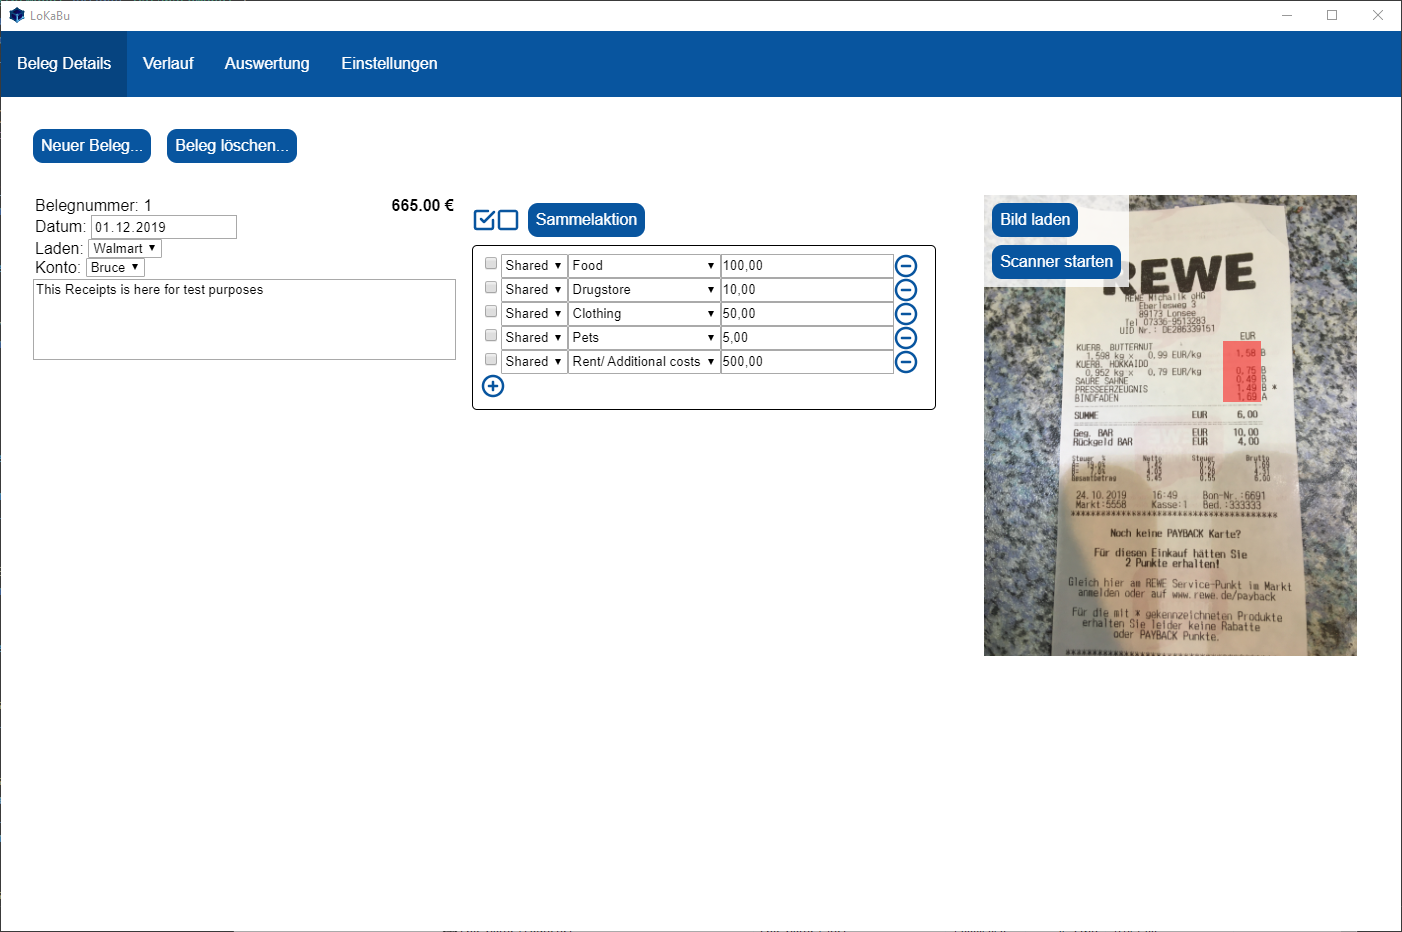
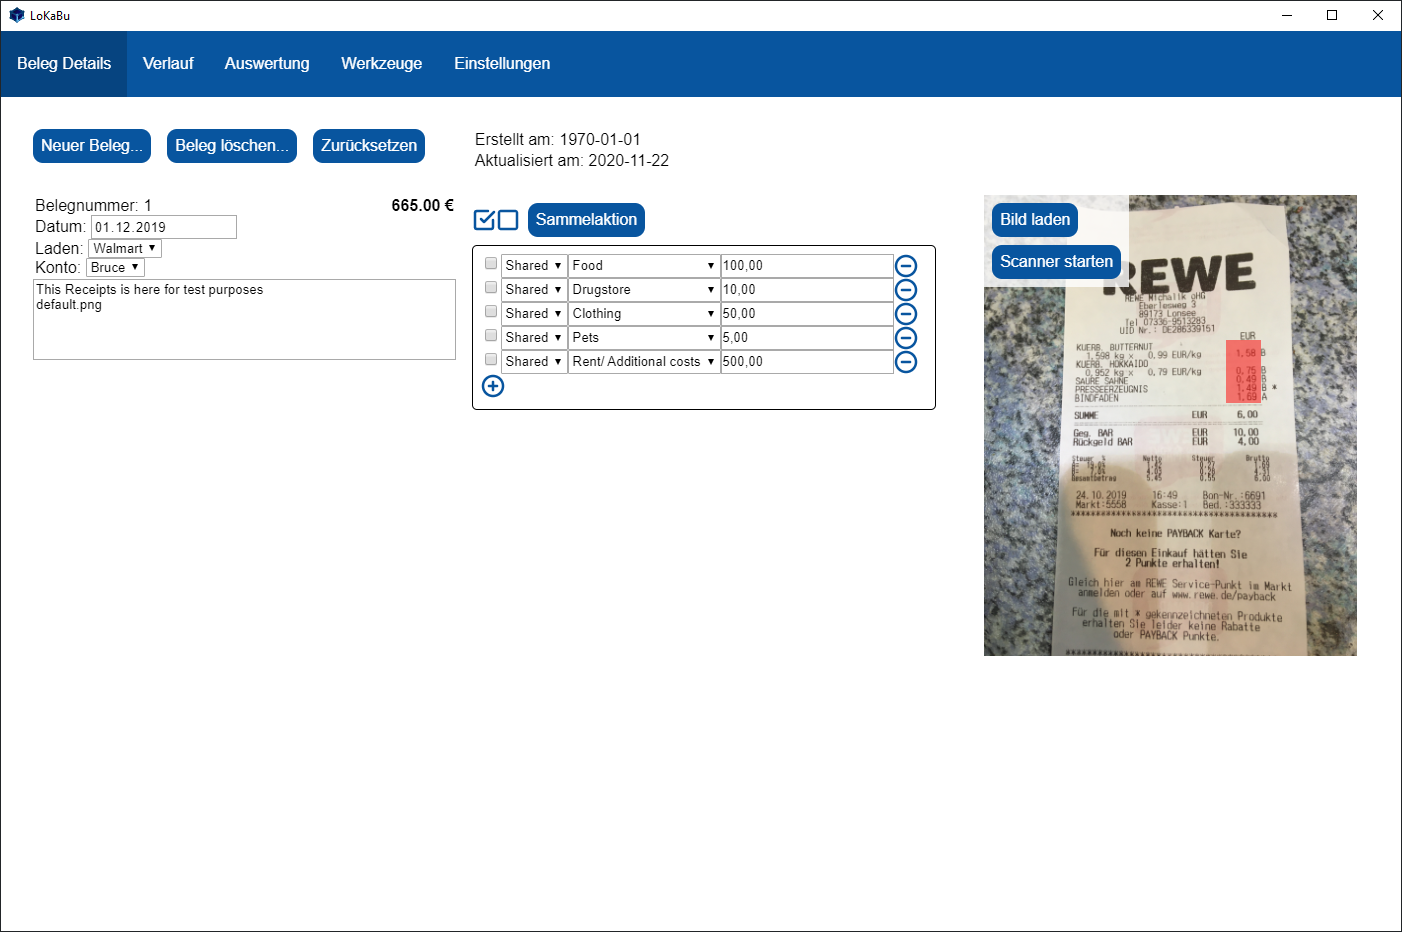
Updated Readme

diff --git a/renderer/model/DetailModel.js b/renderer/model/DetailModel.js
@@ -3,7 +3,6 @@ import { Model } from "./common/Model.js";
 import { LineModel } from "./LineModel.js";
 import { ReceiptModel } from "./ReceiptModel.js";
 import { EventBus } from "../EventBus.js";
-import { deepClone } from "../common/Utils.js";
 
 class _DetailModel extends Model {
     constructor (...args) {

diff --git a/README_DE.md b/README_DE.md
@@ -40,6 +40,7 @@ Du musst deinen plattformabhängigen Build selber bauen (und signieren) oder nut
   <img src="./docu/screenshots/details_de.png" title="Beleg Details" />
   <img src="./docu/screenshots/history_de.png" title="Belegverlauf" />
   <img src="./docu/screenshots/analysis_de.png" title="Auswertung" />
+  <img src="./docu/screenshots/tools_de.png" title="Werkzeuge" />
   <img src="./docu/screenshots/settings_de.png" title="SettEinstellungenings" />
 
 [releaseBadge]: https://img.shields.io/github/v/release/H0rn0chse/LoKaBu.svg

diff --git a/README.md b/README.md
@@ -40,6 +40,7 @@ You have to build (and sign) your platform-dependent build yourself or just use 
   <img src="./docu/screenshots/details.png" title="Receipt details" />
   <img src="./docu/screenshots/history.png" title="Receipt history" />
   <img src="./docu/screenshots/analysis.png" title="Analysis" />
+  <img src="./docu/screenshots/tools.png" title="Tools" />
   <img src="./docu/screenshots/settings.png" title="Settings" />
 
 [releaseBadge]: https://img.shields.io/github/v/release/H0rn0chse/LoKaBu.svg
